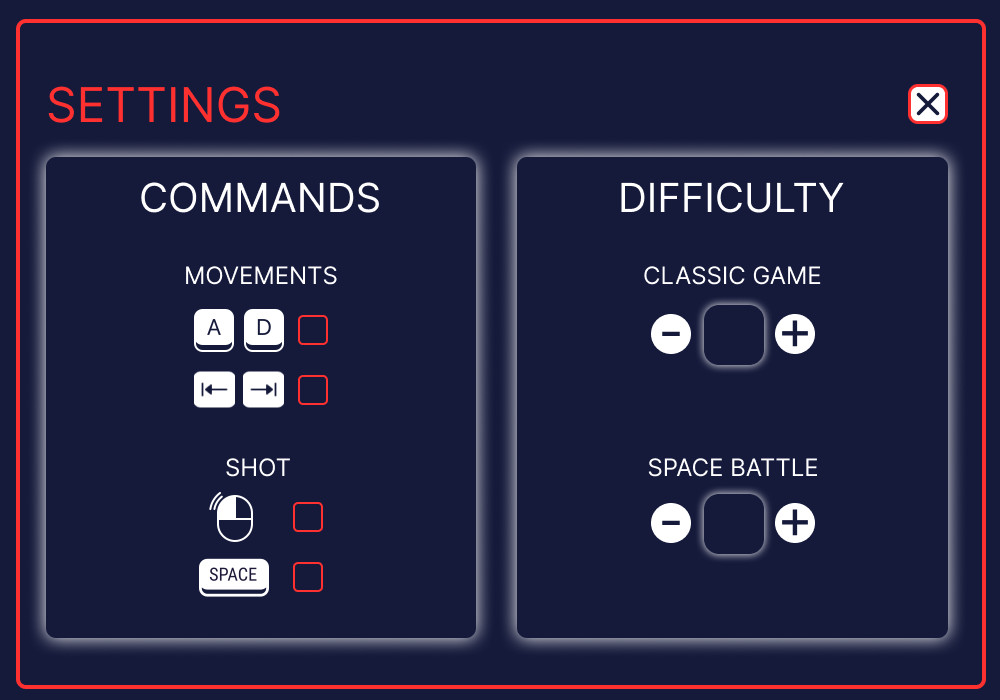
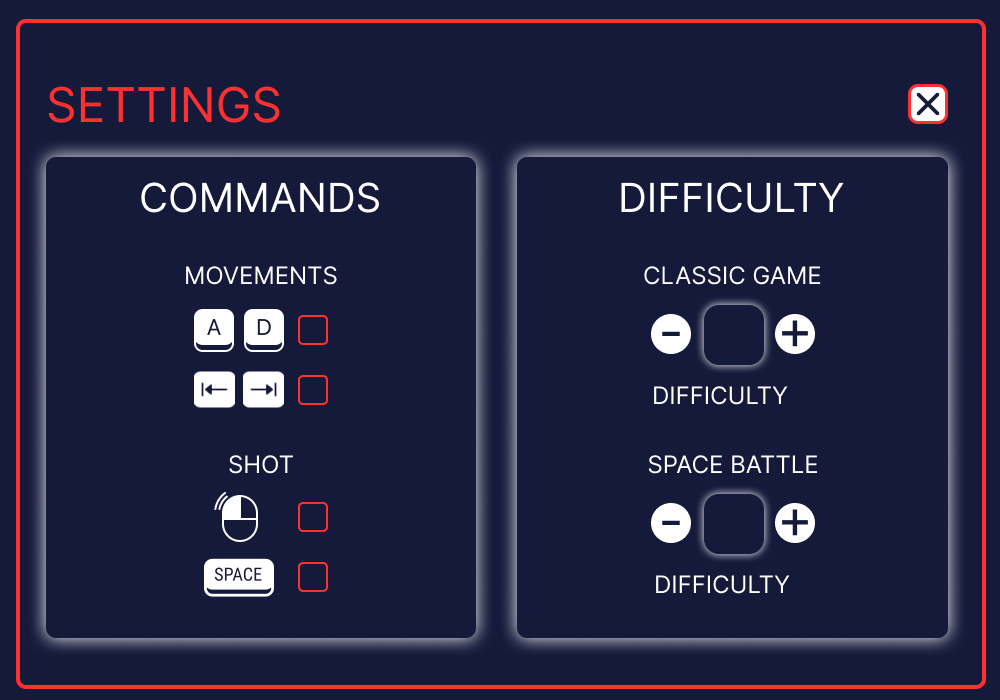
lavoro 16/11/2024

diff --git a/core/src/main/java/com/biga/astroinvasion/Lobby.java b/core/src/main/java/com/biga/astroinvasion/Lobby.java
@@ -2,19 +2,32 @@ package com.biga.astroinvasion;
 import java.util.HashMap;
 
 import com.badlogic.gdx.Gdx;
+import com.badlogic.gdx.Input;
 import com.badlogic.gdx.InputAdapter;
 import com.badlogic.gdx.Screen;
 import com.badlogic.gdx.audio.Music;
+import com.badlogic.gdx.graphics.Color;
 import com.badlogic.gdx.graphics.Texture;
+import com.badlogic.gdx.graphics.g2d.BitmapFont;
 import com.badlogic.gdx.graphics.g2d.SpriteBatch;
 
 public class Lobby implements Screen {
+    // dichiarazione screen
     private final SpriteBatch screen;
+
+    // dichiarazione immagini
     Texture img, img1, img2, img3, img4, img5, img6, img7,
         img8, img9,img10, img11, img12, img13, img14, img15,
-        img16, img17, img18, img19, img20, img21, img22, img_special;
+        img16, img17, img18, img19, img20, img21, img22, img23, img_special;
+
+    /*
+     previousState serve a memorizzare l'ultima pagina aperta.
+     Ciò permette di ritornare alla pagina precedente dopo aver chiuso la pagina delle istruzioni/impostazioni
+    */
     int state, previousState;
     HashMap<Integer, Texture> hashMap = new HashMap<>();
+
+    boolean secondScreen, open22, open23;
 
     // costruttore
     public Lobby() {
@@ -25,8 +38,14 @@ public class Lobby implements Screen {
         // init dello screen
         screen = new SpriteBatch();
 
+        // init del secondo "screen", dello screen software.infos e close.game a false
+        secondScreen = open22 = open23 = false;
+
         // caricamento immagini
         loadImages();
+
+        // caricamento font
+        loadFont();
 
         // musica di sottofondo
         Music openSound = Gdx.audio.newMusic(Gdx.files.internal("sounds/lobby_sound.ogg")); // file audio
@@ -40,28 +59,19 @@ public class Lobby implements Screen {
 
     // classe interna per gestire gli input da mouse e tastiera
     private class MyInputProcessor extends InputAdapter {
-        /*@Override
-        public boolean keyTyped(char character) {
-            if (enteringNickname) {
-                if (character == '\n' || character == '\r' && nicknameInput.length()>=1) { // ENTER per terminare il nickname
-                    enteringNickname = false;
-                } else if (character == '\b' && nicknameInput.length() > 0) { // BACKSPACE per cancellare l'ultimo carattere
-                    nicknameInput.deleteCharAt(nicknameInput.length() - 1);
-                } else if (character >= 32 && character < 127) { // controllo digitazione caratteri validi
-                    nicknameInput.append(character);
-                }
-            } else if (enteringPassword) {
-                if (character == '\n' || character == '\r' && passwordInput.length()>=1) { // ENTER per terminare la password
-                    enteringPassword = false;
-                } else if (character == '\b' && passwordInput.length() > 0) { // BACKSPACE per cancellare l'ultimo carattere
-                    passwordInput.deleteCharAt(passwordInput.length() - 1);
-                } else if (character >= 32 && character < 127) { // controllo digitazione caratteri validi
-                    passwordInput.append(character);
-                }
+        @Override
+        public boolean keyDown(int keycode) {
+            // clic tasto esc
+            if (keycode == Input.Keys.ESCAPE && (state!=7 && state!=21 && !open22 && !open23)) {
+                open23 = true;
+                secondScreen = true;
             }
+            else if (keycode == Input.Keys.ESCAPE && (secondScreen&&open23)) {
+                secondScreen = open23 = false;
+            }
+
             return true;
         }
-         */
 
         // metodo recuperare il click del mouse, crea inizialmente costruttore hash map che contenga interi e Texture, quando poi carico le immagini le abbino con l'has map; 1--> img1;
         @Override
@@ -71,7 +81,7 @@ public class Lobby implements Screen {
             di altre pagine dove non è possibile e poter cambiare le schermate della Lobby.
             Esempio: l'utente NON può aprire la pagina 'classic game' dalla pagina 'instructions'
             */
-            if (state!=7) {
+            if (state!=7 && state!=21 && !open22 && !open23) {
                 // pagina 6 => 'classic game'
                 if ((screenX >= 50 && screenX <= 270) && (screenY >= 180 && screenY <= 220)) {
                     state = 6;
@@ -96,46 +106,51 @@ public class Lobby implements Screen {
                 if ((screenX >= 50 && screenX <= 270) && (screenY >= 480 && screenY <= 520)) {
                     state = 11;
                 }
-                // pagina 7 => 'instructions'
-                if ((screenX >= 50 && screenX <= 270) && (screenY >= 530 && screenY <= 570)) {
-                    /*
-                     Memorizzazione pagina aperta.
-                     Ciò permette di ritornare alla pagina precedente dopo aver chiuso la pagina delle istruzioni
-                    */
-                    previousState = state;
-                    state = 7;
-                }
                 // pagina 1 => 'avatar 1'
                 if ((screenX >= 870 && screenX <=950) && (screenY >= 66 && screenY <=146)) {
                     state = 1;
                 }
                 // cambio pagina (1-5) => 'avatar/spacecraft/ 1->5'
                 if ((screenX >= 873 && screenX <=913) && (screenY >= 553 && screenY <=593)) {
-                    if (state < 5) state++;
+                    if ((state >=1 && state < 5) || (state >= 15 && state < 20)) state++;
                 }
                 // cambio pagina (5-1) => 'avatar/spacecraft/ 5->1'
                 if ((screenX >= 343 && screenX <=373) && (screenY >= 553 && screenY <=593)) {
-                    if (state <= 5 && state>1) state--;
+                    if ((state <= 5 && state>1) || (state <= 20 && state>15)) state--;
                 }
-                // pagine 21 => 'instructions'
+                // pagina 7 => 'instructions'
+                if ((screenX >= 50 && screenX <= 270) && (screenY >= 530 && screenY <= 570)) {
+                    previousState = state;
+                    state = 7;
+                }
+                // pagine 21 => 'settings'
                 if ((screenX >= 50 && screenX <=90) && (screenY >= 580 && screenY <=620)) {
                     previousState = state;
                     state = 21;
                 }
                 // pagina 22 => 'software infos'
-                if ((screenX >= 150 && screenX <=190) && (screenY >= 580 && screenY <=620)) {
-                    previousState = state;
-                    state = 22;
+                if ((screenX >= 110 && screenX <=150) && (screenY >= 580 && screenY <=620)) {
+                    open22 = true;
+                    secondScreen = true;
+                }
+                // pagina 23 => 'close game'
+                if ((screenX >= 170 && screenX <=210) && (screenY >= 580 && screenY <=620)) {
+                    open23 = true;
+                    secondScreen = true;
                 }
             }
 
             // chiusura pagina instruction/settings
-            if ((screenX >= 908 && screenX <= 948) && (screenY >= 84 && screenY <= 124)) {
+            if ((state == 7 || state == 21) && (screenX >= 908 && screenX <= 948) && (screenY >= 84 && screenY <= 124)) {
                 state = previousState;
             }
             // chiusura software.infos
-            if (state == 22 && (screenX >= 0 && screenX <= 1000) && (screenY >= 0 && screenY <= 700)) {
-                state = previousState;
+            if ((secondScreen&&open22) && (screenX >= 684 && screenX <= 724) && (screenY >= 206 && screenY <= 246)) {
+                secondScreen = open22 = false;
+            }
+            // chiusura (annullamento) close.game
+            if ((secondScreen&&open23) && (screenX >= 519 && screenX <= 719) && (screenY >= 417 && screenY <= 497)) {
+                secondScreen = open23 = false;
             }
             return true;
         }
@@ -144,6 +159,25 @@ public class Lobby implements Screen {
     // -------------------- //
     // GRAFICA DELLA CLASSE //
     // -------------------- //
+
+    // caricamento e creazione font per le scritte
+    private void loadFont() {
+        /*
+        Il font utilizzato è Inter-Regular di dimensione base 20
+        Il colore iniziale è il blu di sfondo (hex:151A3B)
+        - per cambiare il colore usare font.setColor()
+        - per cambiare la dimensione del font usare font.getData().setScale(n) dove n è la dimensione di ingrandimento
+        */
+        // dichiarazione font
+        BitmapFont font;
+        try {
+            font = new BitmapFont(Gdx.files.internal("font/inter/Inter-Regular.fnt")); // font personalizzato (inter)
+            font.setColor(Color.valueOf("#151A3B")); // colore blu
+        } catch (Exception e) {
+            font = new BitmapFont(); // font di default (arial)
+            font.setColor(Color.valueOf("#151A3B")); // colore blu
+        }
+    }
 
     // metodo per caricare le immagini che rappresentano lo schermo
     public void loadImages(){
@@ -169,7 +203,11 @@ public class Lobby implements Screen {
         img20 = new Texture("lobby_images/lobby_spacecrafts_special_group_eng.png");
         img21 = new Texture("lobby_images/lobby_settings_eng.png");
         img22 = new Texture("lobby_images/lobby_software_info_eng.png");
+        img23 = new Texture("lobby_images/lobby_close_game_eng.png");
         img_special = new Texture("lobby_images/_rect_claim_reward_eng.png");
+
+        // immagini secondarie variabili
+
 
         // mappatura hashmap
         hashMap.put(1, img1);
@@ -193,7 +231,6 @@ public class Lobby implements Screen {
         hashMap.put(19, img19);
         hashMap.put(20, img20);
         hashMap.put(21, img21);
-        hashMap.put(22, img22);
         hashMap.put(30, img_special);
     }
 
@@ -215,10 +252,20 @@ public class Lobby implements Screen {
     // metodo per aggiornare lo schermo
     @Override
     public void render(float delta) {
-        Gdx.input.setInputProcessor(new Lobby.MyInputProcessor()); // riattiva l'InputProcessor
+        // attivazione controllo input
+        Gdx.input.setInputProcessor(new Lobby.MyInputProcessor());
 
         screen.begin();
+
+        // disegno schermo principale
         screen.draw(hashMap.get(state), 0, 0);
+
+        // disegno schermo sovrapposto (chiusura gioco/software infos)
+        if (secondScreen) {
+            if (open22) screen.draw(img22, 250, 175);
+            else if (open23) screen.draw(img23, 250, 175);
+        }
+
         screen.end();
     }
 

diff --git a/lwjgl3/src/main/java/com/biga/astroinvasion/lwjgl3/Lwjgl3Launcher.java b/lwjgl3/src/main/java/com/biga/astroinvasion/lwjgl3/Lwjgl3Launcher.java
@@ -30,7 +30,7 @@ public class Lwjgl3Launcher {
         configuration.setWindowedMode(1000, 700);
         configuration.setResizable(false);
         //// You can change these files; they are in lwjgl3/src/main/resources/ .
-        configuration.setWindowIcon("libgdx128.png", "libgdx64.png", "libgdx32.png", "libgdx16.png");
+        configuration.setWindowIcon("icon_astroinvasion_16x16.png", "icon_astroinvasion_32x32.png", "icon_astroinvasion_64x64.png", "icon_astroinvasion_128x128.png");
         return configuration;
     }
 }
